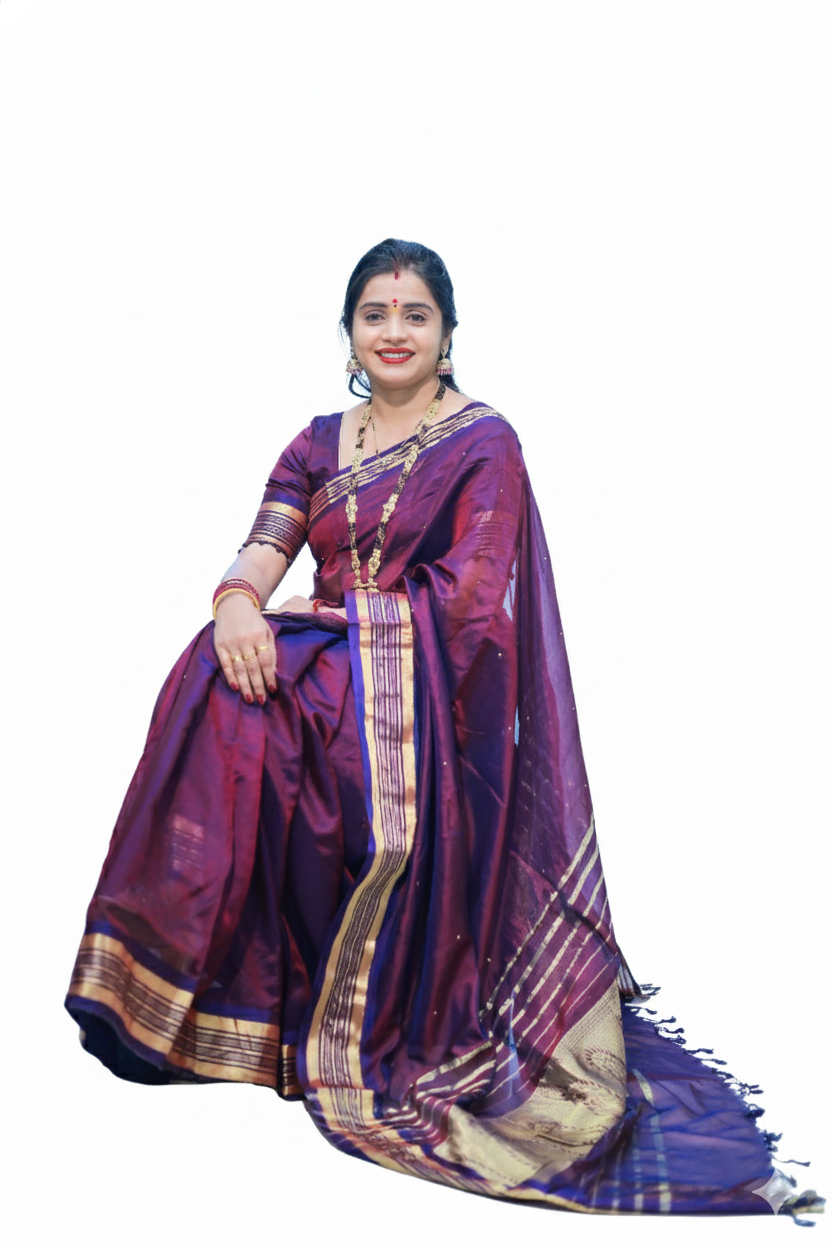
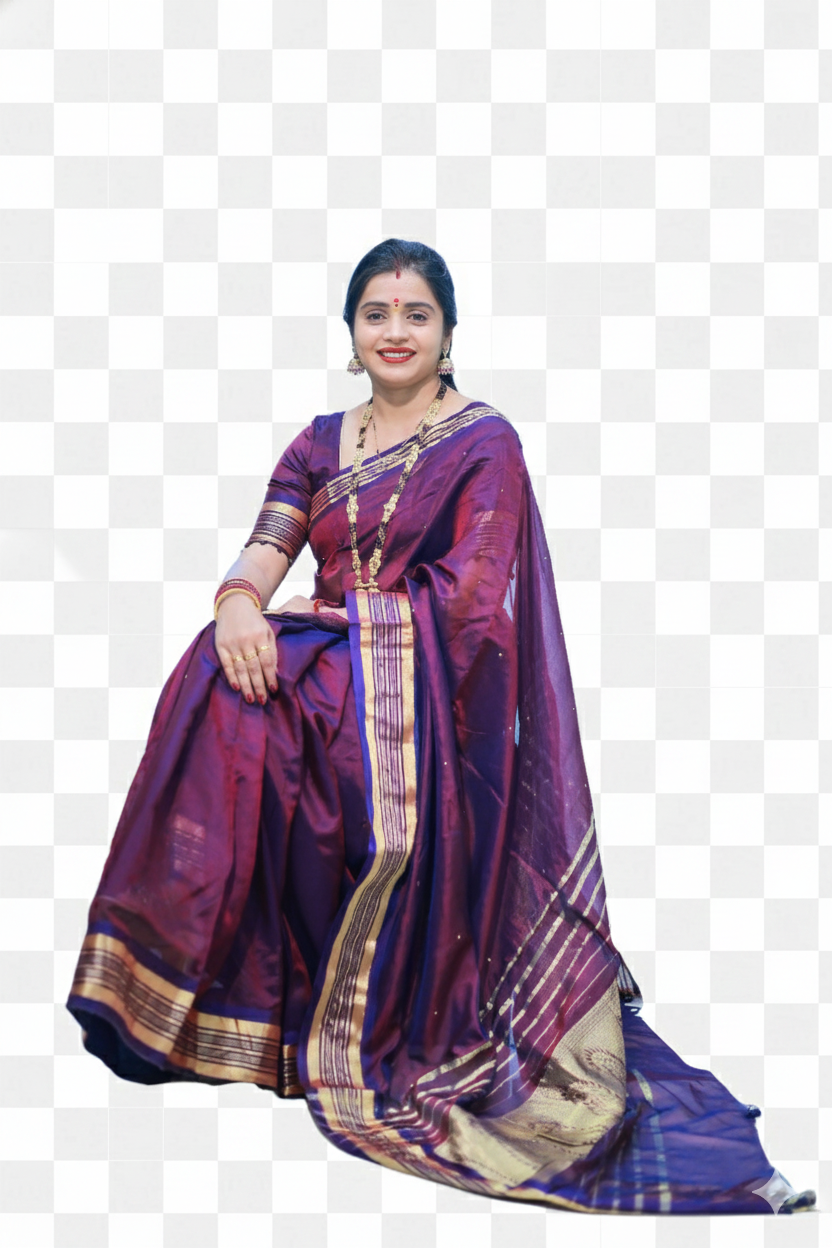
Update HeroCarousel to use new fallback image with background removed
- Changed the fallback image in HeroCarousel to a new image with the background removed for improved visual appeal.
- Updated comments to reflect the change in fallback image description.

diff --git a/frontend/components/HomePage/HeroCarousel.tsx b/frontend/components/HomePage/HeroCarousel.tsx
@@ -39,10 +39,10 @@ const HeroCarousel = () => {
       }
     } catch (error) {
       console.error('Error loading banners:', error);
-      // Fallback to default banner with main hero image
+      // Fallback to default banner with background removed image
       setBanners([{
         id: 'default',
-        image: '/images2/hero sec(main photo).jpg',
+        image: '/images2/img bg removed.png',
         title: 'Premium Indian Sarees',
         description: 'Discover elegance in every thread',
         link: '/products',
